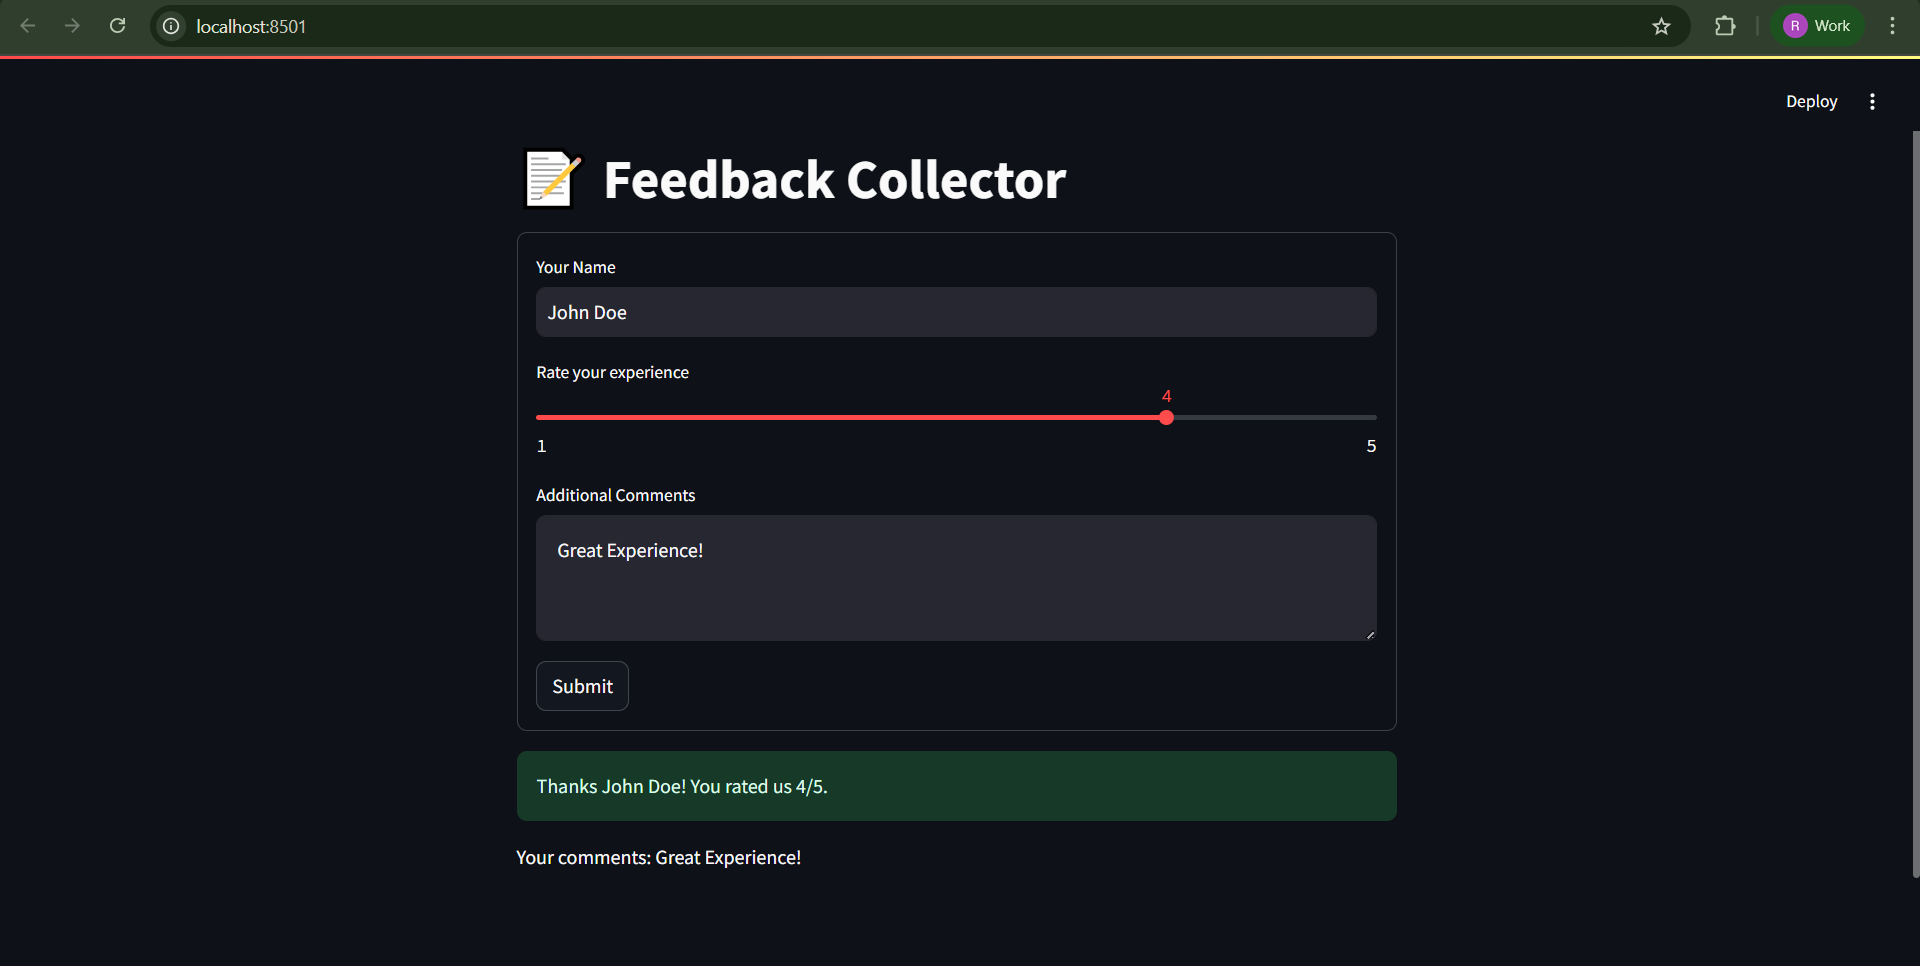
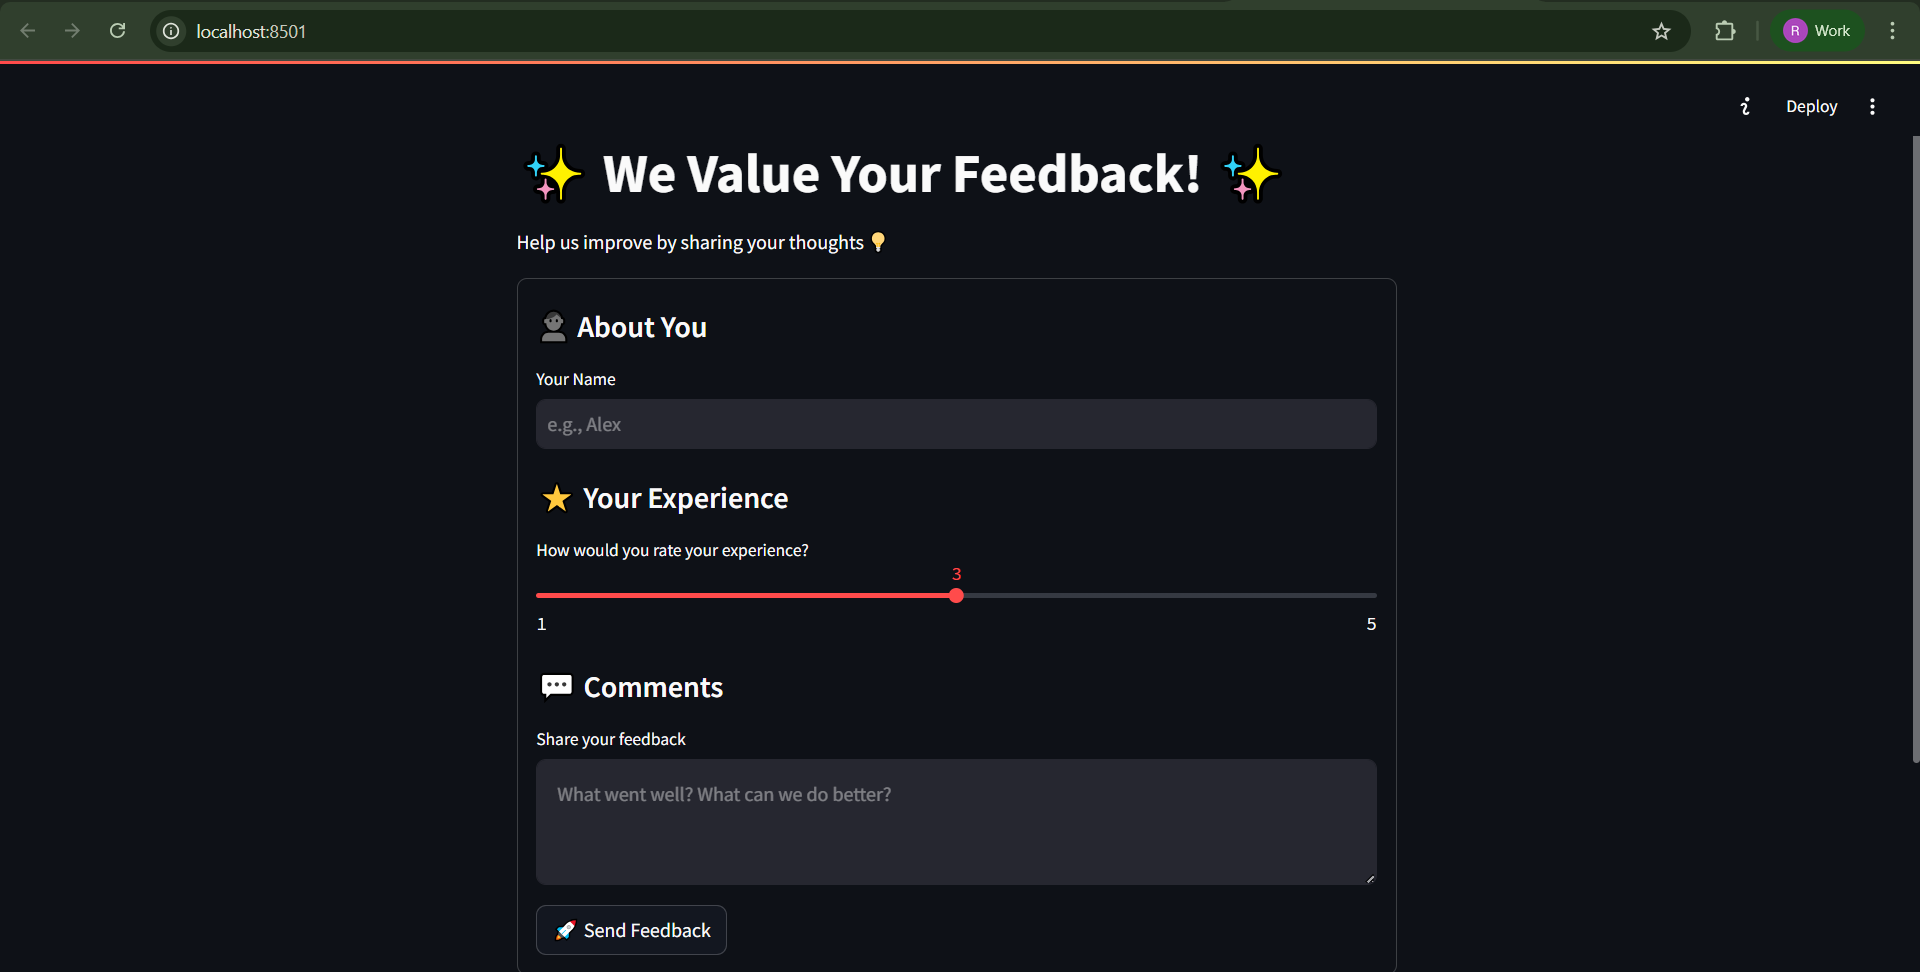
updated module

diff --git a/Module 8/feedback.py b/Module 8/feedback.py
@@ -1,14 +1,21 @@
 import streamlit as st
 
-st.title("📝 Feedback Collector")
+st.set_page_config(page_title="Feedback Collector", page_icon="📝")
 
-with st.form("feedback_form"):
-    name = st.text_input("Your Name")
-    rating = st.slider("Rate your experience", 1, 5, 3)
-    comments = st.text_area("Additional Comments")
-    submitted = st.form_submit_button("Submit")
+st.title("✨ We Value Your Feedback! ✨")
+st.write("Help us improve by sharing your thoughts 💡")
+
+with st.form("feedback_form", clear_on_submit=True):
+    st.markdown("#### 👤 About You")
+    name = st.text_input("Your Name", placeholder="e.g., Alex")
+
+    st.markdown("#### ⭐ Your Experience")
+    rating = st.slider("How would you rate your experience?", 1, 5, 3)
+
+    st.markdown("#### 💬 Comments")
+    comments = st.text_area("Share your feedback", placeholder="What went well? What can we do better?")
+
+    submitted = st.form_submit_button("🚀 Send Feedback")
 
 if submitted:
-    st.success(f"Thanks {name}! You rated us {rating}/5.")
-    if comments:
-        st.write("Your comments:", comments)
+    st.success(f"🎉 Thanks **{name or 'Guest'}**")
